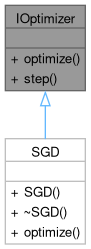
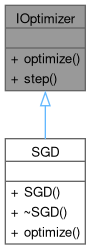
deploy: 3e23679351a0ff00e89926325e25d6137fbaf9b8

Changed region(s): [[0.044, 0.5341, 0.9451, 0.9839]]

diff --git a/SGD_8h_source.html b/SGD_8h_source.html
@@ -105,25 +105,25 @@ $(function(){initNavTree('SGD_8h_source.html',''); initResizable(); });
 <div class="line"><a id="l00007" name="l00007"></a><span class="lineno">    7</span><span class="preprocessor">#include &quot;<a class="code" href="IOptimizer_8h.html">IOptimizer.h</a>&quot;</span></div>
 <div class="line"><a id="l00008" name="l00008"></a><span class="lineno">    8</span><span class="preprocessor">#include &lt;CL/cl.h&gt;</span></div>
 <div class="line"><a id="l00009" name="l00009"></a><span class="lineno">    9</span> </div>
-<div class="foldopen" id="foldopen00010" data-start="{" data-end="};">
-<div class="line"><a id="l00010" name="l00010"></a><span class="lineno"><a class="line" href="classSGD.html">   10</a></span><span class="keyword">class </span><a class="code hl_class" href="classSGD.html">SGD</a> : <span class="keyword">public</span> <a class="code hl_class" href="classIOptimizer.html">IOptimizer</a> {</div>
-<div class="line"><a id="l00011" name="l00011"></a><span class="lineno">   11</span>  <span class="keyword">private</span>:</div>
-<div class="line"><a id="l00012" name="l00012"></a><span class="lineno">   12</span>    <span class="keywordtype">float</span> learning_rate;</div>
-<div class="line"><a id="l00013" name="l00013"></a><span class="lineno">   13</span>    </div>
-<div class="line"><a id="l00014" name="l00014"></a><span class="lineno">   14</span>    cl_program program;</div>
-<div class="line"><a id="l00015" name="l00015"></a><span class="lineno">   15</span>    cl_kernel optimize_kernel;</div>
-<div class="line"><a id="l00016" name="l00016"></a><span class="lineno">   16</span> </div>
-<div class="line"><a id="l00017" name="l00017"></a><span class="lineno">   17</span>  <span class="keyword">public</span>:</div>
-<div class="line"><a id="l00018" name="l00018"></a><span class="lineno">   18</span>    <a class="code hl_class" href="classSGD.html">SGD</a>(<span class="keywordtype">float</span> learning_rate);</div>
-<div class="line"><a id="l00019" name="l00019"></a><span class="lineno">   19</span>    <a class="code hl_class" href="classSGD.html">~SGD</a>();</div>
-<div class="line"><a id="l00020" name="l00020"></a><span class="lineno">   20</span>    </div>
-<div class="line"><a id="l00021" name="l00021"></a><span class="lineno">   21</span>  <span class="keywordtype">void</span> <a class="code hl_function" href="classSGD.html#aa4e35184c65a2759cea568278abe4db3">optimize</a>(<a class="code hl_class" href="classMatrix.html">Matrix</a> &amp;layer_parameters, <a class="code hl_class" href="classMatrix.html">Matrix</a> &amp;layer_gradients) <span class="keyword">override</span> <span class="keyword">final</span>;</div>
-<div class="line"><a id="l00022" name="l00022"></a><span class="lineno">   22</span>};</div>
+<div class="foldopen" id="foldopen00015" data-start="{" data-end="};">
+<div class="line"><a id="l00015" name="l00015"></a><span class="lineno"><a class="line" href="classSGD.html">   15</a></span><span class="keyword">class </span><a class="code hl_class" href="classSGD.html">SGD</a> : <span class="keyword">public</span> <a class="code hl_class" href="classIOptimizer.html">IOptimizer</a> {</div>
+<div class="line"><a id="l00016" name="l00016"></a><span class="lineno">   16</span>  <span class="keyword">private</span>:</div>
+<div class="line"><a id="l00017" name="l00017"></a><span class="lineno">   17</span>    <span class="keywordtype">float</span> learning_rate;</div>
+<div class="line"><a id="l00018" name="l00018"></a><span class="lineno">   18</span>    </div>
+<div class="line"><a id="l00019" name="l00019"></a><span class="lineno">   19</span>    cl_program program;</div>
+<div class="line"><a id="l00020" name="l00020"></a><span class="lineno">   20</span>    cl_kernel optimize_kernel;</div>
+<div class="line"><a id="l00021" name="l00021"></a><span class="lineno">   21</span> </div>
+<div class="line"><a id="l00022" name="l00022"></a><span class="lineno">   22</span>  <span class="keyword">public</span>:</div>
+<div class="line"><a id="l00023" name="l00023"></a><span class="lineno">   23</span>    <a class="code hl_class" href="classSGD.html">SGD</a>(<span class="keywordtype">float</span> learning_rate);</div>
+<div class="line"><a id="l00024" name="l00024"></a><span class="lineno">   24</span>    <a class="code hl_class" href="classSGD.html">~SGD</a>();</div>
+<div class="line"><a id="l00025" name="l00025"></a><span class="lineno">   25</span>    </div>
+<div class="line"><a id="l00026" name="l00026"></a><span class="lineno">   26</span>  <span class="keywordtype">void</span> <a class="code hl_function" href="classSGD.html#aa4e35184c65a2759cea568278abe4db3">optimize</a>(<a class="code hl_class" href="classMatrix.html">Matrix</a> &amp;layer_parameters, <a class="code hl_class" href="classMatrix.html">Matrix</a> &amp;layer_gradients) <span class="keyword">override</span> <span class="keyword">final</span>;</div>
+<div class="line"><a id="l00027" name="l00027"></a><span class="lineno">   27</span>};</div>
 </div>
 <div class="ttc" id="aIOptimizer_8h_html"><div class="ttname"><a href="IOptimizer_8h.html">IOptimizer.h</a></div><div class="ttdoc">definicija sučelja IOptimizer</div></div>
 <div class="ttc" id="aclassIOptimizer_html"><div class="ttname"><a href="classIOptimizer.html">IOptimizer</a></div><div class="ttdoc">apstraktna klasa koja definira sučelje za optimizatore</div><div class="ttdef"><b>Definition</b> IOptimizer.h:17</div></div>
 <div class="ttc" id="aclassMatrix_html"><div class="ttname"><a href="classMatrix.html">Matrix</a></div><div class="ttdef"><b>Definition</b> Matrix.h:15</div></div>
-<div class="ttc" id="aclassSGD_html"><div class="ttname"><a href="classSGD.html">SGD</a></div><div class="ttdef"><b>Definition</b> SGD.h:10</div></div>
+<div class="ttc" id="aclassSGD_html"><div class="ttname"><a href="classSGD.html">SGD</a></div><div class="ttdoc">implementacija stohastičkog gradijentnog spusta:</div><div class="ttdef"><b>Definition</b> SGD.h:15</div></div>
 <div class="ttc" id="aclassSGD_html_aa4e35184c65a2759cea568278abe4db3"><div class="ttname"><a href="classSGD.html#aa4e35184c65a2759cea568278abe4db3">SGD::optimize</a></div><div class="ttdeci">void optimize(Matrix &amp;layer_parameters, Matrix &amp;layer_gradients) override final</div><div class="ttdoc">funkcija na temelju izračunatih parametara vrši korak optimizacije za zadanu varijablu</div><div class="ttdef"><b>Definition</b> SGD.cpp:29</div></div>
 </div><!-- fragment --></div><!-- contents -->
 </div><!-- doc-content -->

diff --git a/files.html b/files.html
@@ -113,7 +113,7 @@ $(function(){initNavTree('files.html',''); initResizable(); });
 <tr id="row_0_2_" class="even"><td class="entry"><span style="width:16px;display:inline-block;">&#160;</span><span id="arr_0_2_" class="arrow" onclick="dynsection.toggleFolder('0_2_')">&#9660;</span><span id="img_0_2_" class="iconfopen" onclick="dynsection.toggleFolder('0_2_')">&#160;</span><a class="el" href="dir_5a5e092d589647eb8dc5c97f4c42b860.html" target="_self">loss_functions</a></td><td class="desc"></td></tr>
 <tr id="row_0_2_0_" class="odd"><td class="entry"><span style="width:48px;display:inline-block;">&#160;</span><a href="CrossEntropyLoss_8h_source.html"><span class="icondoc"></span></a><b>CrossEntropyLoss.h</b></td><td class="desc"></td></tr>
 <tr id="row_0_3_" class="even"><td class="entry"><span style="width:16px;display:inline-block;">&#160;</span><span id="arr_0_3_" class="arrow" onclick="dynsection.toggleFolder('0_3_')">&#9660;</span><span id="img_0_3_" class="iconfopen" onclick="dynsection.toggleFolder('0_3_')">&#160;</span><a class="el" href="dir_a9f4ba3fbba14d65bb9a57468de1b623.html" target="_self">optimizers</a></td><td class="desc"></td></tr>
-<tr id="row_0_3_0_" class="odd"><td class="entry"><span style="width:48px;display:inline-block;">&#160;</span><a href="SGD_8h_source.html"><span class="icondoc"></span></a><a class="el" href="SGD_8h.html" target="_self">SGD.h</a></td><td class="desc">Definicija <a class="el" href="classSGD.html">SGD</a> optimizatora </td></tr>
+<tr id="row_0_3_0_" class="odd"><td class="entry"><span style="width:48px;display:inline-block;">&#160;</span><a href="SGD_8h_source.html"><span class="icondoc"></span></a><a class="el" href="SGD_8h.html" target="_self">SGD.h</a></td><td class="desc">Definicija <a class="el" href="classSGD.html" title="implementacija stohastičkog gradijentnog spusta:">SGD</a> optimizatora </td></tr>
 <tr id="row_0_4_" class="even"><td class="entry"><span style="width:32px;display:inline-block;">&#160;</span><a href="IOptimizer_8h_source.html"><span class="icondoc"></span></a><a class="el" href="IOptimizer_8h.html" target="_self">IOptimizer.h</a></td><td class="desc">Definicija sučelja <a class="el" href="classIOptimizer.html" title="apstraktna klasa koja definira sučelje za optimizatore">IOptimizer</a> </td></tr>
 <tr id="row_0_5_" class="odd"><td class="entry"><span style="width:32px;display:inline-block;">&#160;</span><a href="Module_8h_source.html"><span class="icondoc"></span></a><a class="el" href="Module_8h.html" target="_self">Module.h</a></td><td class="desc">Definicija apstraktne klase <a class="el" href="classModule.html" title="skup funkcija koje se zajedno izvršavaju te mogu optimirati, potrebno je jedino nadjačati metodu forw...">Module</a> </td></tr>
 <tr id="row_0_6_" class="even"><td class="entry"><span style="width:32px;display:inline-block;">&#160;</span><a href="Util_8h_source.html"><span class="icondoc"></span></a><a class="el" href="Util_8h.html" target="_self">Util.h</a></td><td class="desc">Definicija korisnih globalnih funkcija i konstanti </td></tr>
@@ -127,7 +127,7 @@ $(function(){initNavTree('files.html',''); initResizable(); });
 <tr id="row_1_2_" class="even"><td class="entry"><span style="width:16px;display:inline-block;">&#160;</span><span id="arr_1_2_" class="arrow" onclick="dynsection.toggleFolder('1_2_')">&#9660;</span><span id="img_1_2_" class="iconfopen" onclick="dynsection.toggleFolder('1_2_')">&#160;</span><a class="el" href="dir_182ac4ad1bfecee6967fa379d4195094.html" target="_self">loss_functions</a></td><td class="desc"></td></tr>
 <tr id="row_1_2_0_" class="odd"><td class="entry"><span style="width:48px;display:inline-block;">&#160;</span><span class="icondoc"></span><a class="el" href="CrossEntropyLoss_8cpp.html" target="_self">CrossEntropyLoss.cpp</a></td><td class="desc">Implementacija <a class="el" href="classCrossEntropyLoss.html">CrossEntropyLoss</a> funkcije </td></tr>
 <tr id="row_1_3_" class="even"><td class="entry"><span style="width:16px;display:inline-block;">&#160;</span><span id="arr_1_3_" class="arrow" onclick="dynsection.toggleFolder('1_3_')">&#9660;</span><span id="img_1_3_" class="iconfopen" onclick="dynsection.toggleFolder('1_3_')">&#160;</span><a class="el" href="dir_a4ee97eb2dae28df5964868678c00e5b.html" target="_self">optimizers</a></td><td class="desc"></td></tr>
-<tr id="row_1_3_0_" class="odd"><td class="entry"><span style="width:48px;display:inline-block;">&#160;</span><span class="icondoc"></span><a class="el" href="SGD_8cpp.html" target="_self">SGD.cpp</a></td><td class="desc"><a class="el" href="classSGD.html">SGD</a> implementacija </td></tr>
+<tr id="row_1_3_0_" class="odd"><td class="entry"><span style="width:48px;display:inline-block;">&#160;</span><span class="icondoc"></span><a class="el" href="SGD_8cpp.html" target="_self">SGD.cpp</a></td><td class="desc"><a class="el" href="classSGD.html" title="implementacija stohastičkog gradijentnog spusta:">SGD</a> implementacija </td></tr>
 <tr id="row_1_4_" class="even"><td class="entry"><span style="width:32px;display:inline-block;">&#160;</span><span class="icondoc"></span><a class="el" href="Module_8cpp.html" target="_self">Module.cpp</a></td><td class="desc">Implementacije generičke kompozicije funkcija <a class="el" href="classModule.html" title="skup funkcija koje se zajedno izvršavaju te mogu optimirati, potrebno je jedino nadjačati metodu forw...">Module</a> </td></tr>
 <tr id="row_1_5_" class="odd"><td class="entry"><span style="width:32px;display:inline-block;">&#160;</span><span class="icondoc"></span><a class="el" href="Util_8cpp.html" target="_self">Util.cpp</a></td><td class="desc"></td></tr>
 </table>

diff --git a/classSGD.html b/classSGD.html
@@ -99,12 +99,17 @@ $(function(){initNavTree('classSGD.html',''); initResizable(); });
   <div class="headertitle"><div class="title">Opis klase SGD</div></div>
 </div><!--header-->
 <div class="contents">
+
+<p>implementacija stohastičkog gradijentnog spusta: <img class="formulaInl" alt="$ Q(w) = w - \nablaQ(w) $" src="form_0.png"/>  
+ <a href="#details">Opširnije...</a></p>
+
+<p><code>#include &lt;<a class="el" href="SGD_8h_source.html">SGD.h</a>&gt;</code></p>
 <div class="dynheader">
 Dijagram klasa za SGD</div>
 <div class="dyncontent">
 <div class="center"><img src="classSGD__inherit__graph.png" border="0" usemap="#aSGD_inherit__map" alt="Inheritance graph"/></div>
 <map name="aSGD_inherit__map" id="aSGD_inherit__map">
-<area shape="rect" title=" " alt="" coords="5,139,85,244"/>
+<area shape="rect" title="implementacija stohastičkog gradijentnog spusta:" alt="" coords="5,139,85,244"/>
 <area shape="rect" href="classIOptimizer.html" title="apstraktna klasa koja definira sučelje za optimizatore" alt="" coords="5,5,85,91"/>
 <area shape="poly" title=" " alt="" coords="48,106,48,139,43,139,43,106"/>
 </map>
@@ -114,7 +119,7 @@ Kolaboracijski dijagram za SGD:</div>
 <div class="dyncontent">
 <div class="center"><img src="classSGD__coll__graph.png" border="0" usemap="#aSGD_coll__map" alt="Collaboration graph"/></div>
 <map name="aSGD_coll__map" id="aSGD_coll__map">
-<area shape="rect" title=" " alt="" coords="5,139,85,244"/>
+<area shape="rect" title="implementacija stohastičkog gradijentnog spusta:" alt="" coords="5,139,85,244"/>
 <area shape="rect" href="classIOptimizer.html" title="apstraktna klasa koja definira sučelje za optimizatore" alt="" coords="5,5,85,91"/>
 <area shape="poly" title=" " alt="" coords="48,106,48,139,43,139,43,106"/>
 </map>
@@ -134,7 +139,9 @@ virtual void&#160;</td><td class="memItemRight" valign="bottom"><b>step</b> ()=0
 <tr class="memdesc:a2e357f1aacfa8819a1d5403d79e346ba inherit pub_methods_classIOptimizer"><td class="mdescLeft">&#160;</td><td class="mdescRight">opcionalna funkcija kojoj naglasimo nekim optimizatorima da je gotova jedna iteracija radi azuriranja internog stanja <br /></td></tr>
 <tr class="separator:a2e357f1aacfa8819a1d5403d79e346ba inherit pub_methods_classIOptimizer"><td class="memSeparator" colspan="2">&#160;</td></tr>
 </table>
-<h2 class="groupheader">Dokumentacija funkcija</h2>
+<a name="details" id="details"></a><h2 class="groupheader">Detaljno objašnjenje</h2>
+<div class="textblock"><p>implementacija stohastičkog gradijentnog spusta: <img class="formulaInl" alt="$ Q(w) = w - \nablaQ(w) $" src="form_0.png"/> </p>
+</div><h2 class="groupheader">Dokumentacija funkcija</h2>
 <a id="aa4e35184c65a2759cea568278abe4db3" name="aa4e35184c65a2759cea568278abe4db3"></a>
 <h2 class="memtitle"><span class="permalink"><a href="#aa4e35184c65a2759cea568278abe4db3">&#9670;&#160;</a></span>optimize()</h2>
 

diff --git a/hierarchy.html b/hierarchy.html
@@ -127,7 +127,7 @@ Stablo naslijeđivanja je složeno približno po abecedi:</div><div class="direc
 <tr id="row_1_5_" class="even"><td class="entry"><span style="width:32px;display:inline-block;">&#160;</span><span class="icona"><span class="icon">C</span></span><a class="el" href="structautograd_1_1Variable.html" target="_self">autograd::Variable&lt; T &gt;</a></td><td class="desc"></td></tr>
 <tr id="row_2_" class="odd"><td class="entry"><span style="width:16px;display:inline-block;">&#160;</span><span class="icona"><span class="icon">C</span></span><a class="el" href="structautograd_1_1Expression.html" target="_self">autograd::Expression&lt; Matrix &gt;</a></td><td class="desc"></td></tr>
 <tr id="row_3_" class="even"><td class="entry"><span style="width:0px;display:inline-block;">&#160;</span><span id="arr_3_" class="arrow" onclick="dynsection.toggleFolder('3_')">&#9660;</span><span class="icona"><span class="icon">C</span></span><a class="el" href="classIOptimizer.html" target="_self">IOptimizer</a></td><td class="desc">Apstraktna klasa koja definira sučelje za optimizatore </td></tr>
-<tr id="row_3_0_" class="odd"><td class="entry"><span style="width:32px;display:inline-block;">&#160;</span><span class="icona"><span class="icon">C</span></span><a class="el" href="classSGD.html" target="_self">SGD</a></td><td class="desc"></td></tr>
+<tr id="row_3_0_" class="odd"><td class="entry"><span style="width:32px;display:inline-block;">&#160;</span><span class="icona"><span class="icon">C</span></span><a class="el" href="classSGD.html" target="_self">SGD</a></td><td class="desc">Implementacija stohastičkog gradijentnog spusta: <img class="formulaInl" alt="$ Q(w) = w - \nablaQ(w) $" src="form_0.png"/> </td></tr>
 <tr id="row_4_" class="even"><td class="entry"><span style="width:16px;display:inline-block;">&#160;</span><span class="icona"><span class="icon">C</span></span><a class="el" href="classMatrix.html" target="_self">Matrix</a></td><td class="desc"></td></tr>
 <tr id="row_5_" class="odd"><td class="entry"><span style="width:0px;display:inline-block;">&#160;</span><span id="arr_5_" class="arrow" onclick="dynsection.toggleFolder('5_')">&#9660;</span><span class="icona"><span class="icon">C</span></span><a class="el" href="classModule.html" target="_self">Module</a></td><td class="desc">Skup funkcija koje se zajedno izvršavaju te mogu optimirati, potrebno je jedino nadjačati metodu forward </td></tr>
 <tr id="row_5_0_" class="even"><td class="entry"><span style="width:32px;display:inline-block;">&#160;</span><span class="icona"><span class="icon">C</span></span><a class="el" href="classLinear.html" target="_self">Linear</a></td><td class="desc"></td></tr>

diff --git a/annotated.html b/annotated.html
@@ -119,7 +119,7 @@ $(function(){initNavTree('annotated.html',''); initResizable(); });
 <tr id="row_5_" class="even"><td class="entry"><span style="width:16px;display:inline-block;">&#160;</span><span class="icona"><span class="icon">C</span></span><a class="el" href="classModule.html" target="_self">Module</a></td><td class="desc">Skup funkcija koje se zajedno izvršavaju te mogu optimirati, potrebno je jedino nadjačati metodu forward </td></tr>
 <tr id="row_6_" class="odd"><td class="entry"><span style="width:16px;display:inline-block;">&#160;</span><span class="icona"><span class="icon">C</span></span><a class="el" href="classRandom2DGaussian.html" target="_self">Random2DGaussian</a></td><td class="desc"></td></tr>
 <tr id="row_7_" class="even"><td class="entry"><span style="width:16px;display:inline-block;">&#160;</span><span class="icona"><span class="icon">C</span></span><a class="el" href="classReLU.html" target="_self">ReLU</a></td><td class="desc"></td></tr>
-<tr id="row_8_" class="odd"><td class="entry"><span style="width:16px;display:inline-block;">&#160;</span><span class="icona"><span class="icon">C</span></span><a class="el" href="classSGD.html" target="_self">SGD</a></td><td class="desc"></td></tr>
+<tr id="row_8_" class="odd"><td class="entry"><span style="width:16px;display:inline-block;">&#160;</span><span class="icona"><span class="icon">C</span></span><a class="el" href="classSGD.html" target="_self">SGD</a></td><td class="desc">Implementacija stohastičkog gradijentnog spusta: <img class="formulaInl" alt="$ Q(w) = w - \nablaQ(w) $" src="form_0.png"/> </td></tr>
 <tr id="row_9_" class="even"><td class="entry"><span style="width:16px;display:inline-block;">&#160;</span><span class="icona"><span class="icon">C</span></span><a class="el" href="classSigmoid.html" target="_self">Sigmoid</a></td><td class="desc"></td></tr>
 </table>
 </div><!-- directory -->

diff --git a/SGD_8h.html b/SGD_8h.html
@@ -99,7 +99,7 @@ $(function(){initNavTree('SGD_8h.html',''); initResizable(); });
 </div><!--header-->
 <div class="contents">
 
-<p>definicija <a class="el" href="classSGD.html">SGD</a> optimizatora  
+<p>definicija <a class="el" href="classSGD.html" title="implementacija stohastičkog gradijentnog spusta:">SGD</a> optimizatora  
 <a href="#details">Opširnije...</a></p>
 <div class="textblock"><code>#include &quot;<a class="el" href="IOptimizer_8h_source.html">IOptimizer.h</a>&quot;</code><br />
 <code>#include &lt;CL/cl.h&gt;</code><br />
@@ -142,10 +142,11 @@ Ovaj graf pokazuje koje datoteke izravno ili neizravno uključuju ovu datoteku:<
 <tr class="heading"><td colspan="2"><h2 class="groupheader"><a id="nested-classes" name="nested-classes"></a>
 Strukture</h2></td></tr>
 <tr class="memitem:"><td class="memItemLeft" align="right" valign="top">class &#160;</td><td class="memItemRight" valign="bottom"><a class="el" href="classSGD.html">SGD</a></td></tr>
+<tr class="memdesc:"><td class="mdescLeft">&#160;</td><td class="mdescRight">implementacija stohastičkog gradijentnog spusta: <img class="formulaInl" alt="$ Q(w) = w - \nablaQ(w) $" src="form_0.png"/>  <a href="classSGD.html#details">Opširnije...</a><br /></td></tr>
 <tr class="separator:"><td class="memSeparator" colspan="2">&#160;</td></tr>
 </table>
 <a name="details" id="details"></a><h2 class="groupheader">Detaljno objašnjenje</h2>
-<div class="textblock"><p>definicija <a class="el" href="classSGD.html">SGD</a> optimizatora </p>
+<div class="textblock"><p>definicija <a class="el" href="classSGD.html" title="implementacija stohastičkog gradijentnog spusta:">SGD</a> optimizatora </p>
 <dl class="section author"><dt>Autor</dt><dd>Jakov Novak </dd></dl>
 </div></div><!-- contents -->
 </div><!-- doc-content -->

diff --git a/index.html b/index.html
@@ -105,7 +105,7 @@ Ideja</h2>
 <p>Ideja je bila prikazati neuralne mreže kao matematičke funkcije te osmisliti jednostavnu platformu za automatsko diferenciranje istih kako bi se mogao olakšati dizajn i implementacija neuralnih mreža. Korišten je programski jezik C++ zajedno s OpenCL-om te clBlast-om za potrebne operacije s matricama.</p>
 <h2><a class="anchor" id="autotoc_md3"></a>
 Trenutne funkcionalnosti</h2>
-<p>Za sad je moguće definirati proizvoljnu matematičku funkciju te istu evaluirati i nacrtati njezin graf te odrediti gradijent funkcije. Osim tih opcija, moguće je optimirati funkcije preko <a class="el" href="classSGD.html">SGD</a> optimizatora te definirati razne oblike neuralnih mreža preko "Module" sučelja.</p>
+<p>Za sad je moguće definirati proizvoljnu matematičku funkciju te istu evaluirati i nacrtati njezin graf te odrediti gradijent funkcije. Osim tih opcija, moguće je optimirati funkcije preko <a class="el" href="classSGD.html" title="implementacija stohastičkog gradijentnog spusta:">SGD</a> optimizatora te definirati razne oblike neuralnih mreža preko "Module" sučelja.</p>
 <div class="image">
 <img src="demo1.png" alt=""/>
 <div class="caption">

diff --git a/SGD_8cpp.html b/SGD_8cpp.html
@@ -97,7 +97,7 @@ $(function(){initNavTree('SGD_8cpp.html',''); initResizable(); });
 </div><!--header-->
 <div class="contents">
 
-<p><a class="el" href="classSGD.html">SGD</a> implementacija.  
+<p><a class="el" href="classSGD.html" title="implementacija stohastičkog gradijentnog spusta:">SGD</a> implementacija.  
 <a href="#details">Opširnije...</a></p>
 <div class="textblock"><code>#include &quot;<a class="el" href="SGD_8h_source.html">optimizers/SGD.h</a>&quot;</code><br />
 <code>#include &quot;<a class="el" href="Util_8h_source.html">Util.h</a>&quot;</code><br />
@@ -139,7 +139,7 @@ Graf include međuovisnosti za SGD.cpp:</div>
 </map>
 </div>
 </div><a name="details" id="details"></a><h2 class="groupheader">Detaljno objašnjenje</h2>
-<div class="textblock"><p><a class="el" href="classSGD.html">SGD</a> implementacija. </p>
+<div class="textblock"><p><a class="el" href="classSGD.html" title="implementacija stohastičkog gradijentnog spusta:">SGD</a> implementacija. </p>
 <dl class="section author"><dt>Autor</dt><dd>Jakov Novak </dd></dl>
 </div></div><!-- contents -->
 </div><!-- doc-content -->

diff --git a/dir_a9f4ba3fbba14d65bb9a57468de1b623.html b/dir_a9f4ba3fbba14d65bb9a57468de1b623.html
@@ -109,7 +109,7 @@ Direktoriji o kojima ovisi optimizers:</div>
 <tr class="heading"><td colspan="2"><h2 class="groupheader"><a id="files" name="files"></a>
 Datoteke</h2></td></tr>
 <tr class="memitem:"><td class="memItemLeft" align="right" valign="top"><a href="SGD_8h_source.html"><span class="icondoc"></span></a>&#160;</td><td class="memItemRight" valign="bottom"><a class="el" href="SGD_8h.html">SGD.h</a></td></tr>
-<tr class="memdesc:SGD_8h"><td class="mdescLeft">&#160;</td><td class="mdescRight">definicija <a class="el" href="classSGD.html">SGD</a> optimizatora <br /></td></tr>
+<tr class="memdesc:SGD_8h"><td class="mdescLeft">&#160;</td><td class="mdescRight">definicija <a class="el" href="classSGD.html" title="implementacija stohastičkog gradijentnog spusta:">SGD</a> optimizatora <br /></td></tr>
 <tr class="separator:"><td class="memSeparator" colspan="2">&#160;</td></tr>
 </table>
 </div><!-- contents -->

diff --git a/dir_a4ee97eb2dae28df5964868678c00e5b.html b/dir_a4ee97eb2dae28df5964868678c00e5b.html
@@ -112,7 +112,7 @@ Direktoriji o kojima ovisi optimizers:</div>
 <tr class="heading"><td colspan="2"><h2 class="groupheader"><a id="files" name="files"></a>
 Datoteke</h2></td></tr>
 <tr class="memitem:"><td class="memItemLeft" align="right" valign="top"><span class="icondoc"></span>&#160;</td><td class="memItemRight" valign="bottom"><a class="el" href="SGD_8cpp.html">SGD.cpp</a></td></tr>
-<tr class="memdesc:SGD_8cpp"><td class="mdescLeft">&#160;</td><td class="mdescRight"><a class="el" href="classSGD.html">SGD</a> implementacija. <br /></td></tr>
+<tr class="memdesc:SGD_8cpp"><td class="mdescLeft">&#160;</td><td class="mdescRight"><a class="el" href="classSGD.html" title="implementacija stohastičkog gradijentnog spusta:">SGD</a> implementacija. <br /></td></tr>
 <tr class="separator:"><td class="memSeparator" colspan="2">&#160;</td></tr>
 </table>
 </div><!-- contents -->

diff --git a/classIOptimizer.html b/classIOptimizer.html
@@ -110,7 +110,7 @@ Dijagram klasa za IOptimizer</div>
 <div class="center"><img src="classIOptimizer__inherit__graph.png" border="0" usemap="#aIOptimizer_inherit__map" alt="Inheritance graph"/></div>
 <map name="aIOptimizer_inherit__map" id="aIOptimizer_inherit__map">
 <area shape="rect" title="apstraktna klasa koja definira sučelje za optimizatore" alt="" coords="5,5,85,91"/>
-<area shape="rect" href="classSGD.html" title=" " alt="" coords="5,139,85,244"/>
+<area shape="rect" href="classSGD.html" title="implementacija stohastičkog gradijentnog spusta:" alt="" coords="5,139,85,244"/>
 <area shape="poly" title=" " alt="" coords="48,106,48,139,43,139,43,106"/>
 </map>
 </div>

diff --git a/inherits.html b/inherits.html
@@ -107,7 +107,7 @@ $(function(){initNavTree('hierarchy.html',''); initResizable(); });
 <tr><td><img src="inherit_graph_1.png" border="0" usemap="#aIOptimizer" alt=""/>
 <map name="aIOptimizer" id="aIOptimizer">
 <area shape="rect" href="classIOptimizer.html" title="apstraktna klasa koja definira sučelje za optimizatore" alt="" coords="5,5,86,31"/>
-<area shape="rect" href="classSGD.html" title=" " alt="" coords="134,5,183,31"/>
+<area shape="rect" href="classSGD.html" title="implementacija stohastičkog gradijentnog spusta:" alt="" coords="134,5,183,31"/>
 <area shape="poly" title=" " alt="" coords="101,16,133,16,133,21,101,21"/>
 </map>
 </td></tr>
